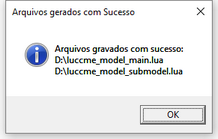
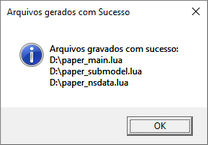
Update on help files Fix on Non Spatial Data Table name

Changed region(s): [[0.0, 0.0, 1.0, 1.0], [0.0865, 0.2878, 0.8654, 0.6043]]

diff --git a/Project1/Project1/Resources/Ajuda/Modelo_Não_Espacial.htm b/Project1/Project1/Resources/Ajuda/Modelo_Não_Espacial.htm
@@ -15,5 +15,83 @@ html,body {
 </head>
 
 <body>
-<P>&nbsp;</P></body>
+<P class=MsoNormal style="TEXT-ALIGN: justify; MARGIN: 0cm 0cm 8pt"><FONT face=Calibri>Nesta seção, lida 
+com a parametrização do Modelo Não Espacial.</FONT></P>
+<P class=MsoNormal style="TEXT-ALIGN: justify; MARGIN: 0cm 0cm 8pt"><IMG alt="" src="imagens/jmne.png"></P><FONT face=Calibri><FONT size=2>&nbsp;&nbsp;&nbsp;&nbsp;&nbsp;&nbsp;&nbsp;&nbsp;&nbsp;&nbsp;&nbsp;&nbsp;&nbsp;&nbsp;&nbsp;&nbsp;&nbsp;&nbsp;&nbsp;&nbsp;&nbsp;&nbsp;&nbsp;&nbsp;&nbsp;&nbsp;&nbsp;&nbsp;&nbsp;&nbsp;&nbsp;&nbsp;&nbsp;&nbsp;&nbsp;&nbsp;&nbsp;&nbsp;&nbsp;&nbsp;&nbsp;&nbsp;&nbsp;&nbsp;&nbsp;&nbsp;&nbsp;&nbsp;&nbsp;&nbsp;&nbsp;&nbsp;&nbsp;&nbsp;&nbsp;&nbsp;&nbsp;&nbsp;&nbsp;</FONT><SPAN 
+style="FONT-SIZE: 10pt; LINE-HEIGHT: 107%; mso-bidi-font-size: 11.0pt">Figura 1: Modelo Não Espacial</SPAN></FONT>
+<P class=MsoListParagraphCxSpMiddle 
+style="TEXT-ALIGN: justify; MARGIN: 0cm 0cm 0pt; mso-add-space: auto" 
+align=center><SPAN 
+style="FONT-SIZE: 10pt; LINE-HEIGHT: 107%; mso-bidi-font-size: 11.0pt"></SPAN>&nbsp;</P>
+<P class=MsoListParagraphCxSpMiddle 
+style="TEXT-ALIGN: justify; MARGIN: 0cm 0cm 0pt; mso-add-space: auto" 
+align=center><SPAN 
+style="FONT-SIZE: 10pt; LINE-HEIGHT: 107%; mso-bidi-font-size: 11.0pt"></SPAN>&nbsp;</P>
+<P class=MsoListParagraphCxSpMiddle 
+style="TEXT-ALIGN: justify; MARGIN: 0cm 0cm 0pt; mso-add-space: auto" 
+align=center><SPAN 
+style="FONT-SIZE: 10pt; LINE-HEIGHT: 107%; mso-bidi-font-size: 11.0pt"></SPAN>&nbsp;</P>
+<P class=MsoListParagraphCxSpMiddle 
+style="TEXT-ALIGN: center; MARGIN: 0cm 0cm 0pt; mso-add-space: auto" 
+align=center></P>
+<P class=MsoListParagraphCxSpMiddle 
+style="TEXT-ALIGN: justify; MARGIN: 0cm 0cm 0pt; mso-add-space: auto"><FONT face=Calibri>O usuário deverá 
+preencher os dados de 1 a 4, selecionar quais componentes serão 
+utilizados,&nbsp;6 a 9, o componente de Biomassa (5)&nbsp;sempre deverá ser 
+utilizado, e informar os dados Não Espaciais clicando em Tabela de Dados Não 
+Espaciais, 10.</FONT></P>
+<P class=MsoListParagraphCxSpMiddle 
+style="TEXT-ALIGN: justify; MARGIN: 0cm 0cm 0pt; mso-add-space: auto"><FONT face=Calibri>Caso deseje ativar a saída no Console, 
+deve-se selecionar Verboso, 11.</FONT></P>
+<P class=MsoListParagraphCxSpMiddle 
+style="TEXT-ALIGN: justify; MARGIN: 0cm 0cm 0pt; mso-add-space: auto">&nbsp;</P>
+<P class=MsoListParagraphCxSpMiddle 
+style="TEXT-ALIGN: justify; MARGIN: 0cm 0cm 0pt; mso-add-space: auto"><IMG alt="" src="imagens/jtdne.png"></P>
+<P class=MsoListParagraphCxSpMiddle 
+style="TEXT-ALIGN: justify; MARGIN: 0cm 0cm 0pt; mso-add-space: auto"><FONT face=Calibri><FONT size=2>&nbsp;&nbsp;&nbsp;&nbsp;&nbsp;&nbsp;&nbsp;&nbsp;&nbsp;&nbsp;&nbsp;&nbsp;&nbsp;&nbsp;&nbsp;&nbsp;&nbsp;&nbsp;&nbsp;&nbsp;&nbsp;&nbsp;&nbsp;&nbsp;&nbsp;&nbsp;&nbsp;&nbsp;&nbsp;&nbsp;&nbsp;&nbsp;&nbsp;&nbsp;&nbsp;&nbsp;&nbsp;&nbsp;&nbsp;&nbsp;&nbsp;&nbsp;&nbsp;&nbsp;&nbsp;&nbsp;&nbsp;&nbsp;&nbsp;&nbsp;&nbsp;&nbsp;&nbsp;&nbsp;&nbsp;&nbsp;&nbsp;&nbsp;&nbsp;&nbsp;&nbsp;&nbsp;&nbsp;&nbsp;&nbsp;&nbsp;&nbsp;&nbsp;&nbsp;&nbsp;&nbsp;&nbsp;&nbsp;&nbsp;&nbsp;&nbsp;&nbsp;&nbsp;&nbsp;&nbsp;&nbsp;&nbsp;&nbsp;&nbsp;&nbsp;&nbsp;&nbsp;&nbsp;</FONT></FONT></P>
+<P class=MsoListParagraphCxSpMiddle 
+style="TEXT-ALIGN: justify; MARGIN: 0cm 0cm 0pt; mso-add-space: auto"><FONT face=Calibri><FONT size=2>&nbsp;&nbsp;&nbsp;&nbsp;&nbsp;&nbsp;&nbsp;&nbsp;&nbsp;&nbsp;&nbsp;&nbsp;&nbsp;&nbsp;&nbsp;&nbsp;&nbsp;&nbsp;&nbsp;&nbsp;&nbsp;&nbsp;&nbsp;&nbsp;&nbsp;&nbsp;&nbsp;&nbsp;&nbsp;&nbsp;&nbsp;&nbsp;&nbsp;&nbsp;&nbsp;&nbsp;&nbsp;&nbsp;&nbsp;&nbsp;&nbsp;&nbsp;&nbsp;&nbsp;&nbsp; 
+</FONT>&nbsp;<SPAN 
+style="FONT-SIZE: 10pt; LINE-HEIGHT: 107%; mso-bidi-font-size: 11.0pt">Figura 2:&nbsp;Janela Tabela de Dados&nbsp;Não Espaciais</SPAN></FONT></P>
+<P class=MsoListParagraphCxSpMiddle 
+style="TEXT-ALIGN: justify; MARGIN: 0cm 0cm 0pt; mso-add-space: auto"><FONT face=Calibri><SPAN 
+style="FONT-SIZE: 10pt; LINE-HEIGHT: 107%; mso-bidi-font-size: 11.0pt">     </SPAN></FONT>&nbsp;</P>
+<P class=MsoListParagraphCxSpMiddle 
+style="TEXT-ALIGN: justify; MARGIN: 0cm 0cm 0pt; mso-add-space: auto"><FONT face=Calibri><SPAN 
+style="FONT-SIZE: 10pt; LINE-HEIGHT: 107%; mso-bidi-font-size: 11.0pt">    </SPAN></FONT>&nbsp;</P>
+<P class=MsoListParagraphCxSpMiddle 
+style="TEXT-ALIGN: justify; MARGIN: 0cm 0cm 0pt; mso-add-space: auto"><FONT face=Calibri size=3><SPAN 
+style="FONT-SIZE: 10pt; LINE-HEIGHT: 107%; mso-bidi-font-size: 11.0pt"><FONT size=3>Após a inserção dos dados uma confirmação 
+aparecerá para o usuário:</FONT>    </SPAN></FONT></P>
+<P class=MsoListParagraphCxSpMiddle 
+style="TEXT-ALIGN: justify; MARGIN: 0cm 0cm 0pt; mso-add-space: auto"><FONT face=Calibri size=3><SPAN 
+style="FONT-SIZE: 10pt; LINE-HEIGHT: 107%; mso-bidi-font-size: 11.0pt">    </SPAN></FONT><FONT face=Calibri><SPAN 
+style="FONT-SIZE: 10pt; LINE-HEIGHT: 107%; mso-bidi-font-size: 11.0pt">    </SPAN></FONT>&nbsp;</P>
+<P class=MsoListParagraphCxSpMiddle 
+style="TEXT-ALIGN: justify; MARGIN: 0cm 0cm 0pt; mso-add-space: auto"><FONT face=Calibri><SPAN 
+style="FONT-SIZE: 10pt; LINE-HEIGHT: 107%; mso-bidi-font-size: 11.0pt">&nbsp;&nbsp;&nbsp;&nbsp;&nbsp;&nbsp;&nbsp;&nbsp;&nbsp;&nbsp;&nbsp;&nbsp;&nbsp;&nbsp;&nbsp;&nbsp;&nbsp;&nbsp;&nbsp;&nbsp;&nbsp;&nbsp;&nbsp;&nbsp;&nbsp;&nbsp;&nbsp;&nbsp;&nbsp;&nbsp;&nbsp;&nbsp;&nbsp;&nbsp;&nbsp;&nbsp;&nbsp;&nbsp;&nbsp;&nbsp;&nbsp;&nbsp;&nbsp;&nbsp;&nbsp;&nbsp;&nbsp;&nbsp;&nbsp;&nbsp;&nbsp;&nbsp;&nbsp;&nbsp;&nbsp;&nbsp;&nbsp;&nbsp;&nbsp;&nbsp;&nbsp;&nbsp;&nbsp;&nbsp;&nbsp;&nbsp;<IMG alt="" src="imagens/ctdne.PNG">    </SPAN></FONT></P>
+<P class=MsoListParagraphCxSpMiddle 
+style="TEXT-ALIGN: justify; MARGIN: 0cm 0cm 0pt; mso-add-space: auto"><FONT face=Calibri><SPAN 
+style="FONT-SIZE: 10pt; LINE-HEIGHT: 107%; mso-bidi-font-size: 11.0pt">&nbsp;&nbsp;&nbsp;&nbsp;&nbsp;&nbsp;&nbsp;&nbsp;&nbsp;&nbsp;&nbsp;&nbsp;&nbsp;&nbsp;&nbsp;&nbsp;&nbsp;&nbsp;&nbsp;&nbsp;&nbsp;&nbsp;&nbsp;&nbsp;&nbsp;&nbsp;&nbsp;&nbsp;&nbsp;&nbsp;&nbsp;&nbsp;&nbsp;&nbsp;&nbsp;&nbsp;&nbsp;&nbsp;&nbsp;&nbsp;&nbsp;<SPAN 
+style="FONT-SIZE: 10pt; LINE-HEIGHT: 107%; mso-bidi-font-size: 11.0pt">Figura 3:&nbsp;Confirmação Tabela de Dados&nbsp;Não Espaciais</SPAN>    </SPAN></FONT></P>
+<P class=MsoListParagraphCxSpMiddle 
+style="TEXT-ALIGN: justify; MARGIN: 0cm 0cm 0pt; mso-add-space: auto"><FONT face=Calibri><SPAN 
+style="FONT-SIZE: 10pt; LINE-HEIGHT: 107%; mso-bidi-font-size: 11.0pt">    </SPAN></FONT>&nbsp;</P>
+<P class=MsoListParagraphCxSpMiddle 
+style="TEXT-ALIGN: justify; MARGIN: 0cm 0cm 0pt; mso-add-space: auto"><FONT face=Calibri><SPAN 
+style="FONT-SIZE: 10pt; LINE-HEIGHT: 107%; mso-bidi-font-size: 11.0pt">    </SPAN></FONT>&nbsp;</P><FONT face=Calibri><SPAN 
+style="FONT-SIZE: 10pt; LINE-HEIGHT: 107%; mso-bidi-font-size: 11.0pt">
+<P class=MsoListParagraphCxSpMiddle 
+style="TEXT-ALIGN: justify; MARGIN: 0cm 0cm 0pt; mso-add-space: auto"><FONT face=Calibri size=3>   
+           
+   A parametrização do Modelo Não Espacial deve 
+ser feita sempre que o usuário deseje&nbsp;gerar um Modelo Não Espacial ou um 
+Modelo Combinado</FONT><FONT face=Calibri size=3>       
+   .</FONT></P>    </SPAN></FONT>
+<P class=MsoListParagraphCxSpMiddle 
+style="TEXT-ALIGN: justify; MARGIN: 0cm 0cm 0pt; mso-add-space: auto"><FONT face=Calibri><SPAN 
+style="FONT-SIZE: 10pt; LINE-HEIGHT: 107%; mso-bidi-font-size: 11.0pt">    </SPAN></FONT>&nbsp;</P>
+<P class=MsoListParagraphCxSpMiddle 
+style="TEXT-ALIGN: justify; MARGIN: 0cm 0cm 0pt; mso-add-space: auto"><FONT face=Calibri><SPAN 
+style="FONT-SIZE: 10pt; LINE-HEIGHT: 107%; mso-bidi-font-size: 11.0pt">    </SPAN></FONT>&nbsp;</P></body>
 </html>

diff --git a/Project1/Project1/Resources/Ajuda/Gerar_Arquivos.htm b/Project1/Project1/Resources/Ajuda/Gerar_Arquivos.htm
@@ -20,22 +20,23 @@ sugere, esta sessão é responsável pela geração dos arquivos <I
 style="mso-bidi-font-style: normal">(.lua)</I>.</P>
 <P class=MsoNormal style="TEXT-ALIGN: justify; MARGIN: 0cm 0cm 8pt">Serão salvos 
 dois arquivos: um sendo o nome do modelo com <I 
-style="mso-bidi-font-style: normal">_main.lua</I>, contendo as informações 
-gerais do modelo e outro sendo o nome do modelo com <I 
+style="mso-bidi-font-style: normal">_main.lua</I>, contendo as 
+informações gerais do modelo e&nbsp;outro sendo o nome do modelo com <I 
 style="mso-bidi-font-style: normal">_submodel.lua</I>, contendo os 
 submodelos<SPAN style="mso-spacerun: yes">&nbsp; 
 </SPAN>configurados.</P>
+<P class=MsoNormal style="TEXT-ALIGN: justify; MARGIN: 0cm 0cm 8pt">Caso seja selecionado um modelo não espacial ou combinado, outro aquivo será gerado:&nbsp; modelo com <I 
+style="mso-bidi-font-style: normal">_nsdata.lua</I>, 
+contendo os dados não espaciais.</P>
 <P class=MsoNormal 
-style="TEXT-ALIGN: justify; MARGIN: 0cm 0cm 8pt">Certifique-se de preencher 
-todos os dados necessários e clique no botão Gerar Arquivos:</P>
-<P class=MsoNormal style="TEXT-ALIGN: justify; MARGIN: 0cm 0cm 8pt">Caso a 
-gravação ocorra com sucesso uma mensagem de confirmação será 
-exibida:</P>
-<P class=MsoNormal style="TEXT-ALIGN: justify; MARGIN: 0cm 0cm 8pt"></FONT><FONT face=Calibri><IMG alt="" src="imagens/bga.png"></FONT></P>
+style="TEXT-ALIGN: justify; MARGIN: 0cm 0cm 8pt">Certifique-se de preencher todos os dados necessários, selecione o tipo 
+de modelo (1)&nbsp;que deseje&nbsp;e clique no botão Gerar Arquivos (2):</P>
+<P class=MsoNormal style="TEXT-ALIGN: justify; MARGIN: 0cm 0cm 8pt"><FONT face=Calibri><IMG alt="" src="imagens/bga.png"></FONT></P>
             <P class=MsoNormal 
             style="TEXT-ALIGN: justify; MARGIN: 0cm 0cm 8pt" dir=ltr align=left><FONT face=Calibri><FONT size=2>&nbsp;&nbsp;&nbsp;&nbsp;&nbsp;&nbsp;&nbsp;&nbsp;&nbsp;&nbsp;&nbsp;&nbsp;&nbsp;&nbsp;&nbsp;&nbsp;&nbsp;&nbsp;&nbsp;&nbsp;&nbsp;&nbsp;&nbsp;&nbsp;&nbsp;&nbsp;&nbsp;&nbsp;&nbsp;&nbsp;&nbsp;&nbsp;&nbsp;&nbsp;&nbsp;&nbsp;&nbsp;&nbsp;&nbsp;&nbsp;&nbsp;&nbsp;&nbsp;&nbsp;&nbsp;&nbsp;&nbsp;&nbsp;&nbsp;&nbsp;&nbsp;&nbsp;&nbsp;&nbsp;&nbsp;&nbsp;&nbsp;&nbsp;&nbsp;&nbsp;&nbsp;&nbsp;Figura 1: Botão Gerar 
             Arquivos</FONT></FONT></P>
-<P class=MsoNormal style="TEXT-ALIGN: justify; MARGIN: 0cm 0cm 8pt"><FONT face=Calibri></FONT>&nbsp;</P>
+            <P class=MsoNormal 
+            style="TEXT-ALIGN: justify; MARGIN: 0cm 0cm 8pt" dir=ltr align=left></FONT><FONT face=Calibri></FONT>&nbsp;</P>
 <P class=MsoNormal style="TEXT-ALIGN: justify; MARGIN: 0cm 0cm 8pt"><FONT face=Calibri>Caso a gravação ocorra com sucesso uma mensagem de confirmação será 
 exibida:</FONT></P>
 <P class=MsoNormal style="TEXT-ALIGN: justify; MARGIN: 0cm 0cm 8pt">&nbsp;</P>
@@ -44,22 +45,22 @@ exibida:</FONT></P>
 src="imagens/carquivos.png"></P>
 <P class=MsoNormal style="TEXT-ALIGN: justify; MARGIN: 0cm 0cm 8pt"><FONT face=Calibri><FONT size=2> 
  
-&nbsp;&nbsp;&nbsp;&nbsp;&nbsp;&nbsp;&nbsp;&nbsp;&nbsp;&nbsp;&nbsp;&nbsp;&nbsp;&nbsp;&nbsp;&nbsp;&nbsp;&nbsp;&nbsp;&nbsp;&nbsp;&nbsp;&nbsp;&nbsp;&nbsp;&nbsp;&nbsp;&nbsp;&nbsp;&nbsp;&nbsp;&nbsp;&nbsp;&nbsp;&nbsp;&nbsp;&nbsp;&nbsp;&nbsp;&nbsp;&nbsp;&nbsp;&nbsp;&nbsp;&nbsp;&nbsp;&nbsp;&nbsp;&nbsp;&nbsp;&nbsp;&nbsp;&nbsp;&nbsp;Figura 2: Arquivos gravados com sucesso</FONT></FONT></P>
+&nbsp;&nbsp;&nbsp;&nbsp;&nbsp;&nbsp;&nbsp;&nbsp;&nbsp;&nbsp;&nbsp;&nbsp;&nbsp;&nbsp;&nbsp;&nbsp;&nbsp;&nbsp;&nbsp;&nbsp;&nbsp;&nbsp;&nbsp;&nbsp;&nbsp;&nbsp;&nbsp;&nbsp;&nbsp;&nbsp;&nbsp;&nbsp;&nbsp;&nbsp;&nbsp;&nbsp;&nbsp;&nbsp;&nbsp;&nbsp;&nbsp;&nbsp;&nbsp;&nbsp;&nbsp;&nbsp;&nbsp;&nbsp;&nbsp;&nbsp;&nbsp;&nbsp;Figura 2: Arquivos gravados com sucesso</FONT></FONT></P>
 <P class=MsoNormal style="TEXT-ALIGN: justify; MARGIN: 0cm 0cm 8pt">&nbsp;</P>
 <P class=MsoNormal style="TEXT-ALIGN: center; MARGIN: 0cm 0cm 8pt" 
 align=left><o:p><FONT face=Calibri></FONT></O:P></P><SPAN 
-style='FONT-SIZE: 11pt; FONT-FAMILY: "Calibri",sans-serif; LINE-HEIGHT: 107%; mso-bidi-font-family: "Times New Roman"; mso-bidi-theme-font: minor-bidi; mso-ansi-language: PT-BR; mso-fareast-language: EN-US; mso-ascii-theme-font: minor-latin; mso-fareast-font-family: Calibri; mso-fareast-theme-font: minor-latin; mso-hansi-theme-font: minor-latin; mso-bidi-language: AR-SA'>
+style='FONT-SIZE: 11pt; FONT-FAMILY: "Calibri",sans-serif; LINE-HEIGHT: 107%; mso-bidi-font-family: "Times New Roman"; mso-bidi-theme-font: minor-bidi; mso-fareast-language: EN-US; mso-fareast-font-family: Calibri; mso-ansi-language: PT-BR; mso-fareast-theme-font: minor-latin; mso-ascii-theme-font: minor-latin; mso-hansi-theme-font: minor-latin; mso-bidi-language: AR-SA'>
 <P class=MsoNormal style="TEXT-ALIGN: justify; MARGIN: 0cm 0cm 8pt">Após a 
 geração dos Arquivos será exibido o botão Rodar Modelo, possibilitando executar 
 o modelo que acabou de ser salvo.</P> 
             
         </SPAN>
 <P><SPAN 
-style='FONT-SIZE: 11pt; FONT-FAMILY: "Calibri",sans-serif; LINE-HEIGHT: 107%; mso-bidi-font-family: "Times New Roman"; mso-bidi-theme-font: minor-bidi; mso-ansi-language: PT-BR; mso-fareast-language: EN-US; mso-ascii-theme-font: minor-latin; mso-fareast-font-family: Calibri; mso-fareast-theme-font: minor-latin; mso-hansi-theme-font: minor-latin; mso-bidi-language: AR-SA'><IMG alt="" src="imagens/brodar.png"> 
+style='FONT-SIZE: 11pt; FONT-FAMILY: "Calibri",sans-serif; LINE-HEIGHT: 107%; mso-bidi-font-family: "Times New Roman"; mso-bidi-theme-font: minor-bidi; mso-fareast-language: EN-US; mso-fareast-font-family: Calibri; mso-ansi-language: PT-BR; mso-fareast-theme-font: minor-latin; mso-ascii-theme-font: minor-latin; mso-hansi-theme-font: minor-latin; mso-bidi-language: AR-SA'><IMG alt="" src="imagens/brodar.png"> 
             
         </SPAN></P>
 <P style="MARGIN-RIGHT: 0px" dir=ltr><SPAN 
-style='FONT-SIZE: 11pt; FONT-FAMILY: "Calibri",sans-serif; LINE-HEIGHT: 107%; mso-bidi-font-family: "Times New Roman"; mso-bidi-theme-font: minor-bidi; mso-ansi-language: PT-BR; mso-fareast-language: EN-US; mso-ascii-theme-font: minor-latin; mso-fareast-font-family: Calibri; mso-fareast-theme-font: minor-latin; mso-hansi-theme-font: minor-latin; mso-bidi-language: AR-SA'><FONT size=2>&nbsp;&nbsp;&nbsp;&nbsp;&nbsp;&nbsp;&nbsp;&nbsp;&nbsp;&nbsp;&nbsp;&nbsp;&nbsp;&nbsp;&nbsp;&nbsp;&nbsp;&nbsp;&nbsp;&nbsp;&nbsp;&nbsp;&nbsp;&nbsp;&nbsp;&nbsp;&nbsp;&nbsp;&nbsp;&nbsp;&nbsp;&nbsp;&nbsp;&nbsp;&nbsp;&nbsp;&nbsp;&nbsp;&nbsp;&nbsp;&nbsp;&nbsp;&nbsp;&nbsp;&nbsp;&nbsp;&nbsp;&nbsp;&nbsp;&nbsp;&nbsp;&nbsp;&nbsp;&nbsp;&nbsp;&nbsp;&nbsp;&nbsp;&nbsp;&nbsp;&nbsp; 
+style='FONT-SIZE: 11pt; FONT-FAMILY: "Calibri",sans-serif; LINE-HEIGHT: 107%; mso-bidi-font-family: "Times New Roman"; mso-bidi-theme-font: minor-bidi; mso-fareast-language: EN-US; mso-fareast-font-family: Calibri; mso-ansi-language: PT-BR; mso-fareast-theme-font: minor-latin; mso-ascii-theme-font: minor-latin; mso-hansi-theme-font: minor-latin; mso-bidi-language: AR-SA'><FONT size=2>&nbsp;&nbsp;&nbsp;&nbsp;&nbsp;&nbsp;&nbsp;&nbsp;&nbsp;&nbsp;&nbsp;&nbsp;&nbsp;&nbsp;&nbsp;&nbsp;&nbsp;&nbsp;&nbsp;&nbsp;&nbsp;&nbsp;&nbsp;&nbsp;&nbsp;&nbsp;&nbsp;&nbsp;&nbsp;&nbsp;&nbsp;&nbsp;&nbsp;&nbsp;&nbsp;&nbsp;&nbsp;&nbsp;&nbsp;&nbsp;&nbsp;&nbsp;&nbsp;&nbsp;&nbsp;&nbsp;&nbsp;&nbsp;&nbsp;&nbsp;&nbsp;&nbsp;&nbsp;&nbsp;&nbsp;&nbsp;&nbsp;&nbsp;&nbsp;&nbsp;&nbsp; 
             Figura 3: Botão Rodar o 
             Modelo</FONT> 
             
